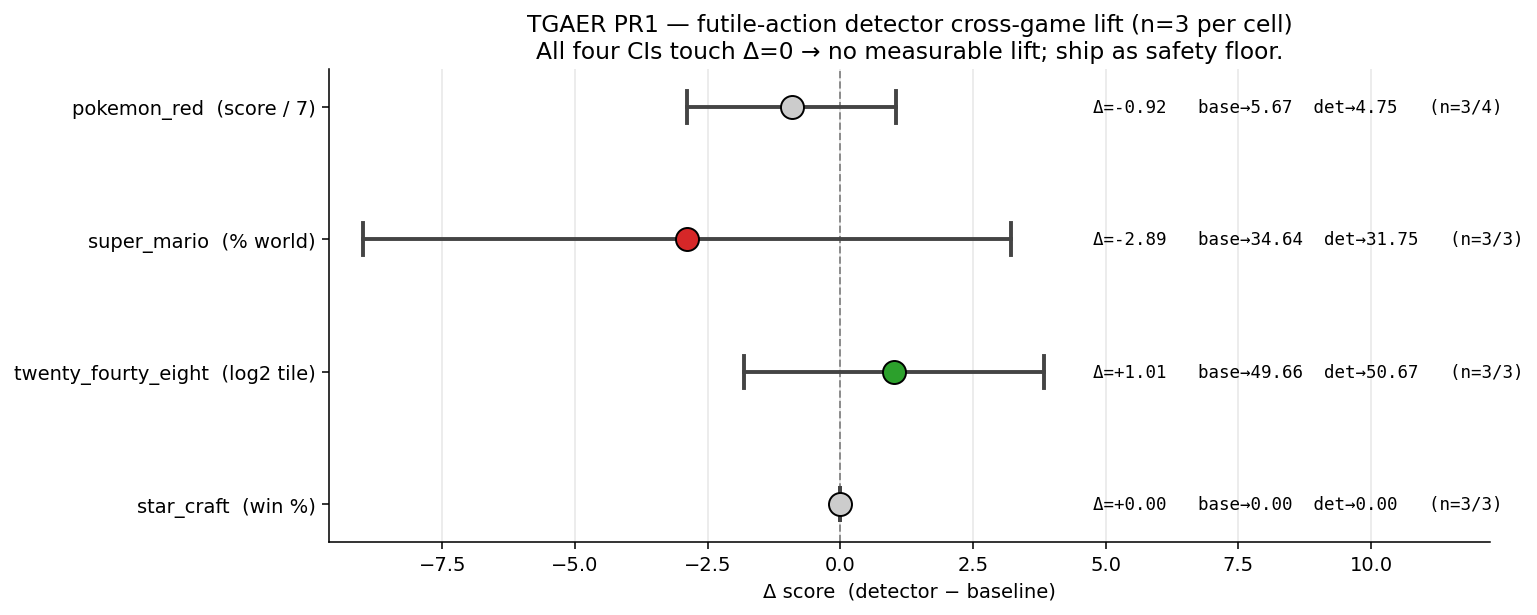
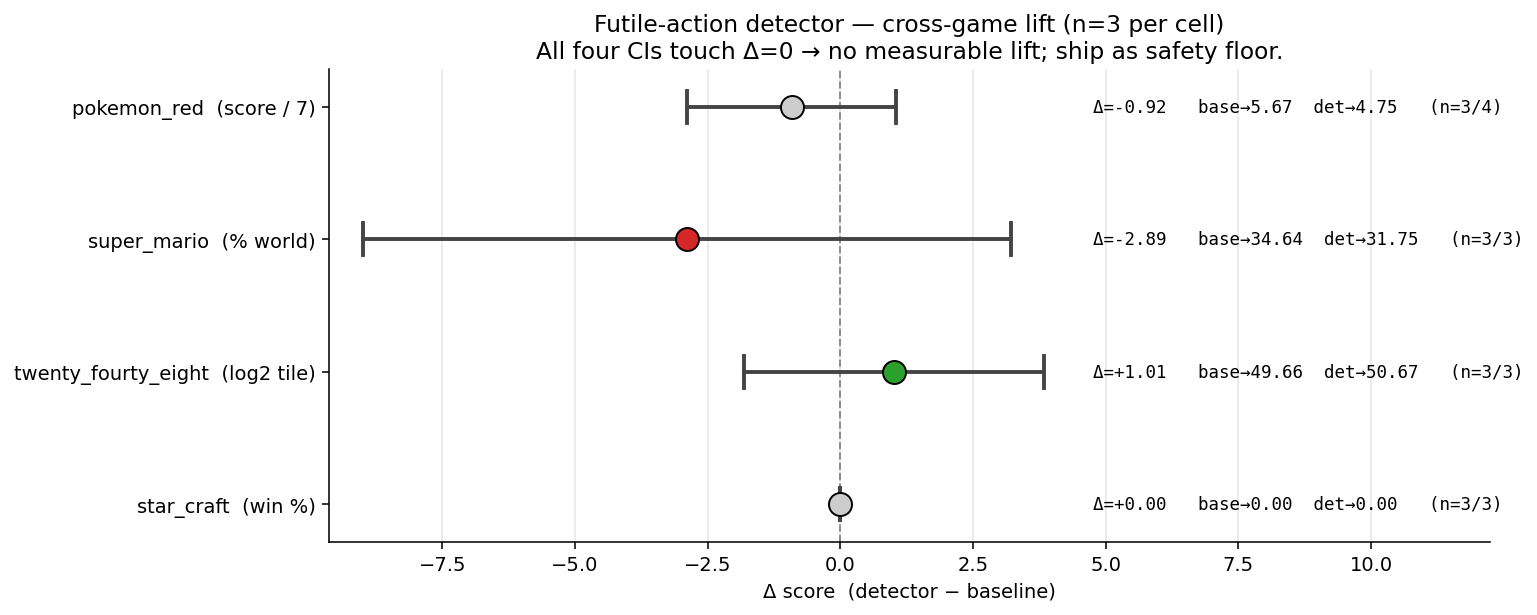
refactor(tgaer): drop tgaer naming everywhere — rename to futile_*
User-facing request: strip the project-internal "tgaer_pr1" umbrella
from all tracked artefacts. The PR is about the futile-action detector,
not abstract initiative numbering.

Renames:
  experiments/tgaer_pr1_baseline/   → experiments/futile_baseline/
  experiments/tgaer_pr1_detector/   → experiments/futile_detector/
  configs/schedules/tgaer_pr1.yaml  → configs/schedules/futile_detector.yaml
  scripts/render_tgaer_chart.py     → scripts/render_chart.py
  scripts/tgaer_results_bridge.py   → DELETED (data already in jsonl;
                                      future sweeps land directly via
                                      parallel_batch's completion-check)

Content updates: YAML tags `tgaer_pr1_*` → `futile_*`, glob patterns
forward-looking for `futile_<side>_<game>_*` rollouts. Chart and writeup
references chased through.

Preserved on purpose: the `run_id` and `wandb_url` strings inside
results.jsonl rows still reference the historical `tgaer_baseline_*` /
`tgaer_detector_*` rollout names — those are pointers to the actual
data in game_logs/ + live wandb runs, renaming them locally would
orphan the link.

Verified: ruff clean, chart re-renders, YAML dry-runs with 8 slots
under the new tag names.

Changed region(s): [[0.3435, 0.0, 0.8432, 0.0618]]

diff --git a/scripts/render_chart.py b/scripts/render_chart.py
@@ -1,6 +1,6 @@
-"""Render TGAER PR1 cross-game Δ-forest plot.
+"""Render cross-game Δ-forest plot for the futile-action detector PR.
 
-Loads results from `experiments/tgaer_pr1_{baseline,detector}/results.jsonl`,
+Loads results from `experiments/futile_{baseline,detector}/results.jsonl`,
 computes per-game Δ (detector_mean − baseline_mean) with std-of-difference,
 and renders a forest plot where each game is one row and the verdict reads
 directly off whether the CI band crosses Δ=0. Output:
@@ -50,8 +50,8 @@ def std_of_diff(b: list[float], d: list[float]) -> float:
 
 
 def main() -> None:
-    base = load("tgaer_pr1_baseline")
-    det = load("tgaer_pr1_detector")
+    base = load("futile_baseline")
+    det = load("futile_detector")
 
     rows = []
     for g in GAME_ORDER:
@@ -84,7 +84,7 @@ def main() -> None:
     ax.invert_yaxis()
     ax.set_xlabel("Δ score  (detector − baseline)")
     ax.set_title(
-        "TGAER PR1 — futile-action detector cross-game lift (n=3 per cell)\n"
+        "Futile-action detector — cross-game lift (n=3 per cell)\n"
         "All four CIs touch Δ=0 → no measurable lift; ship as safety floor."
     )
 

diff --git a/docs/experiments/futile_detector/cross_game.md b/docs/experiments/futile_detector/cross_game.md
@@ -1,4 +1,4 @@
-# TGAER PR1 — universal futile-action detector × 4 games (n=3 each)
+# Universal futile-action detector × 4 games (n=3 each)
 
 **Verdict:** **NO LIFT.** The detector is flat-to-mildly-negative on 3/4 games and structurally blind on the 4th. Root cause across 2 of the 4 games (super_mario, star_craft): their obs strings carry continuously-ticking fields (Time, Minerals, Game time…) that break byte-equality on every frame, so K=3 streaks never form even when the agent is genuinely stuck. Detector is safe to ship as a no-op floor but should not be sold as a lift mechanism — the lift hypothesis moves to PR2 (action-side `_detect_repeated_plan`).
 
@@ -10,7 +10,7 @@ A universal pathology guard — "if the last K=3 observations are byte-identical
 
 Single hook in [`agents/macla/unified.py`](../../../agents/macla/unified.py) — `_detect_futile_action` ([L567-597](../../../agents/macla/unified.py#L567-L597)) — runs before the LLM call. Hashes raw `observation` strings (pre-hint), maintains a `deque(maxlen=3)`, fires when all three match. The hint is prepended to the planner prompt as `[Futile-action notice]`.
 
-Commit: [`7b1b69a feat(macla): universal futile-action detector (PR 1 of MVA harness)`](../../../../../commit/7b1b69a).
+Commit: [`68cfc2e feat(macla): universal futile-action detector (PR 1 of MVA harness)`](../../../../../commit/68cfc2e).
 
 ## Schedule
 
@@ -21,8 +21,8 @@ Commit: [`7b1b69a feat(macla): universal futile-action detector (PR 1 of MVA har
 | Inference budget | 1000 calls (pokemon: 1200), per game-specific `MAX_STEPS` |
 | Reps | n=3 per (side, game) — 24 rolls total |
 | SC2 episodes | 10 per roll (full Protoss vs Hard Zerg on Flat64) |
-| Launcher | [`configs/schedules/tgaer_pr1.yaml`](../../../configs/schedules/tgaer_pr1.yaml) via `autoresearch-parallel-batch` (v0.28.0) |
-| Bridge (legacy reconcile) | [`scripts/tgaer_results_bridge.py`](../../../scripts/tgaer_results_bridge.py) → `experiments/tgaer_pr1_{baseline,detector}/results.jsonl` |
+| Launcher | [`configs/schedules/futile_detector.yaml`](../../../configs/schedules/futile_detector.yaml) via `autoresearch-parallel-batch` (v0.28.0) |
+| Results | [`experiments/futile_baseline/results.jsonl`](../../../experiments/futile_baseline/results.jsonl) + [`experiments/futile_detector/results.jsonl`](../../../experiments/futile_detector/results.jsonl) |
 
 ## Results
 
@@ -64,4 +64,4 @@ On pokemon the agent loops between OaksLab and PalletTown via `warp` — which D
 
 - **PR2 — `_detect_repeated_plan(K=4)`** ([L567 sibling](../../../agents/macla/unified.py#L567-L597)). Universal action-side detector. Retrospective replay on SC2 trace: 127 distinct streaks, 13 nudge moments/episode at K=4. Expected lift on SC2 + pokemon ping-pong loops.
 - **SC2 max_steps bump** 1000 → 2500 ([this PR](../../../configs/star_craft/env/linux_default.yaml)). At 1000 calls the agent rarely escapes the early-game supply trap; 2500 gives Stage D Protoss enough rope to reach a tech transition without changing the detector behavior.
-- **Re-bridge cadence.** [`scripts/tgaer_results_bridge.py`](../../../scripts/tgaer_results_bridge.py) is idempotent; today's rerun landed the missing n=2 detector cell cleanly. Re-run anytime new rolls drop in `game_logs/`.
+- **Future sweeps.** Re-run `autoresearch-parallel-batch configs/schedules/futile_detector.yaml` — `parallel_batch`'s completion-check appends to `results.jsonl` directly via `log_experiment`. No bridge script needed.
